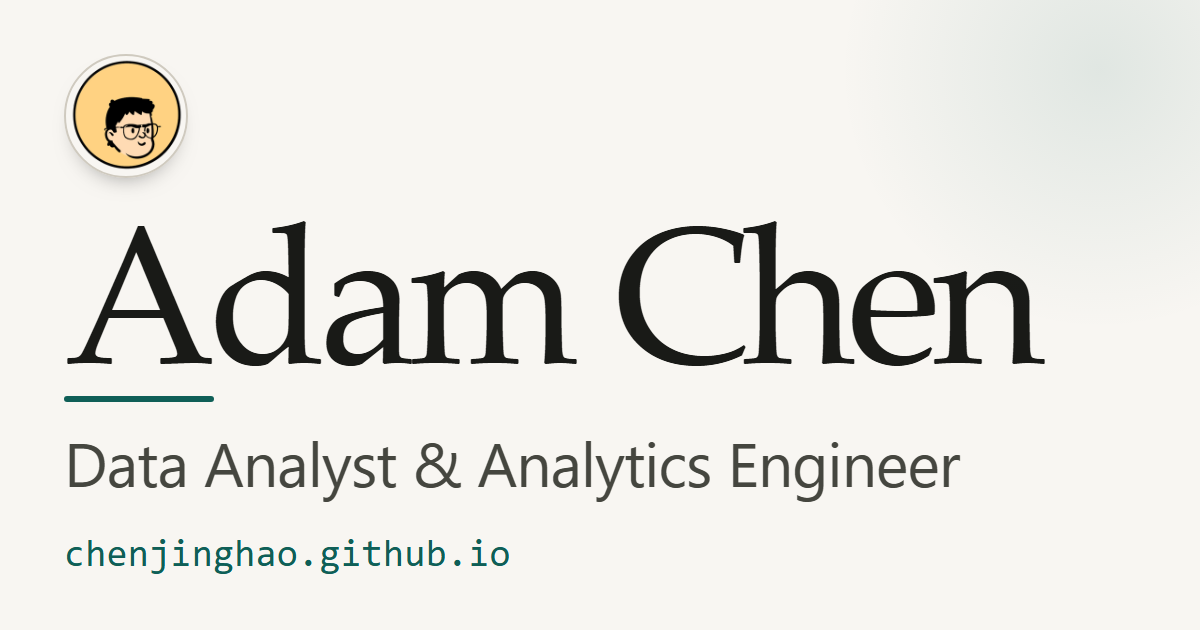
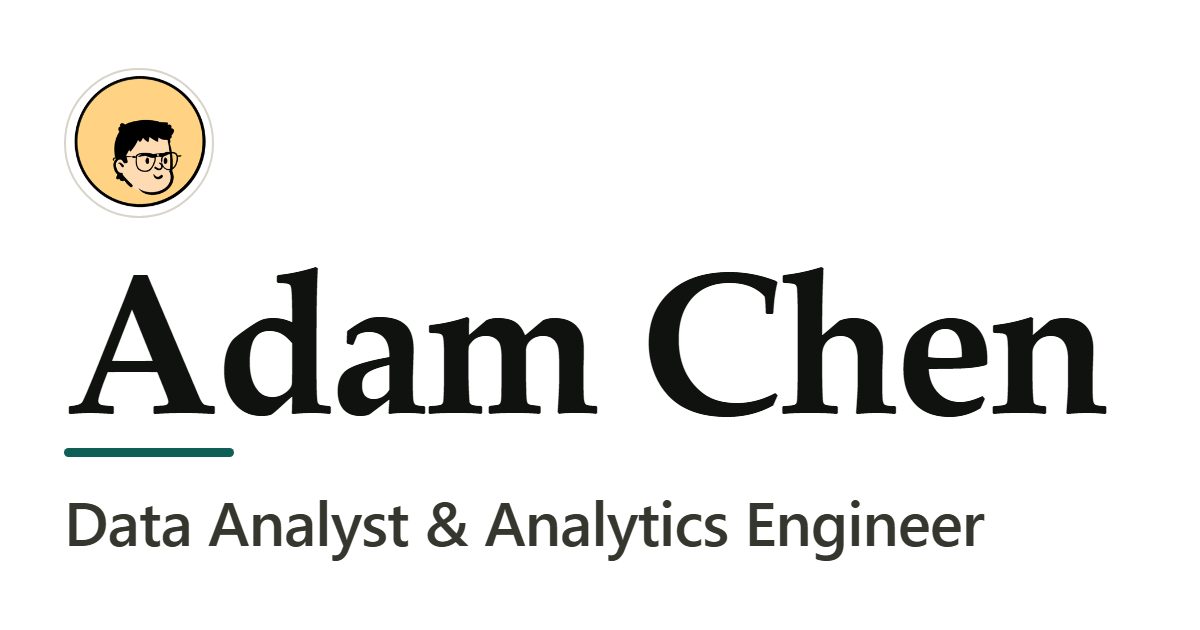
Rebuild the share card to survive LinkedIn's 480px re-encode

Changed region(s): [[0.0308, 0.0905, 0.925, 0.6635], [0.0308, 0.6937, 0.8325, 0.9048], [0.8325, 0.0, 0.9867, 0.2413]]

diff --git a/assets/og-card.html b/assets/og-card.html
@@ -4,57 +4,54 @@
 <meta charset="utf-8">
 <meta name="robots" content="noindex, nofollow">
 <title>Share card source | Adam Chen</title>
+<!--
+  Source for assets/og-image.png. Render at exactly 1200x630:
+  msedge --headless --window-size=1200,630 --screenshot=og-image.png og-card.html
+
+  Sized for LinkedIn, which downsizes the card to 480px wide and re-encodes it
+  as JPEG. That is why the type is heavy and there is no small print: thin
+  strokes and anything under ~40px turn to mush at 480px.
+-->
 <style>
   @page { size: 1200px 630px; margin: 0; }
   * { box-sizing: border-box; margin: 0; }
   html, body { width: 1200px; height: 630px; }
   body {
-    position: relative;
     display: flex;
     flex-direction: column;
-    justify-content: space-between;
-    padding: 54px 64px;
-    overflow: hidden;
-    background: #f8f6f2;
-    color: #191a17;
+    justify-content: center;
+    gap: 30px;
+    padding: 56px 64px;
+    background: #ffffff;
+    color: #10120f;
     font-family: ui-sans-serif, system-ui, -apple-system, "Segoe UI", Roboto, Arial, sans-serif;
   }
-  body::after {
-    content: "";
-    position: absolute;
-    right: -170px;
-    top: -200px;
-    width: 540px;
-    height: 540px;
-    border-radius: 50%;
-    background: radial-gradient(circle, rgba(15, 95, 87, 0.10), rgba(15, 95, 87, 0) 68%);
-  }
   .avatar {
-    width: 124px; height: 124px; border-radius: 50%;
-    object-fit: cover; border: 2px solid #cfcabf;
-    box-shadow: 0 12px 26px -18px rgba(0, 0, 0, 0.6);
+    width: 150px;
+    height: 150px;
+    border-radius: 50%;
+    object-fit: cover;
+    border: 2px solid #d8d4c9;
   }
   h1 {
     font-family: "Iowan Old Style", "Palatino Linotype", Palatino, Georgia, serif;
-    font-size: 196px;
-    font-weight: 500;
-    letter-spacing: -0.045em;
-    line-height: 0.86;
+    font-size: 200px;
+    font-weight: 600;
+    letter-spacing: -0.03em;
+    line-height: 0.9;
   }
   .rule {
-    width: 150px; height: 6px; border-radius: 3px;
-    background: #0f5f57; margin: 22px 0 18px;
+    width: 170px;
+    height: 9px;
+    border-radius: 5px;
+    background: #0f5f57;
+    margin: 20px 0 22px;
   }
   .role {
     font-size: 62px;
+    font-weight: 500;
     letter-spacing: -0.015em;
-    color: #45463f;
-  }
-  .url {
-    font-family: ui-monospace, Consolas, monospace;
-    font-size: 38px;
-    letter-spacing: 0.01em;
-    color: #0f5f57;
+    color: #35372f;
   }
 </style>
 </head>
@@ -65,6 +62,5 @@
     <div class="rule"></div>
     <p class="role">Data Analyst &amp; Analytics Engineer</p>
   </div>
-  <p class="url">chenjinghao.github.io</p>
 </body>
 </html>
